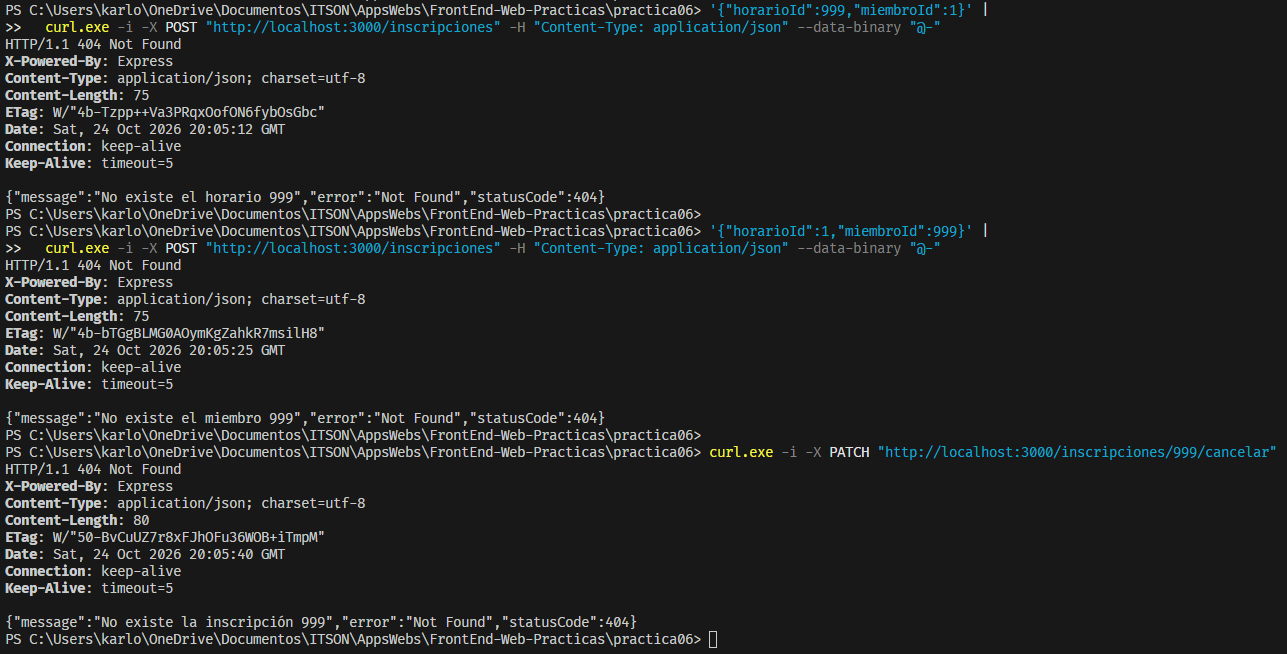
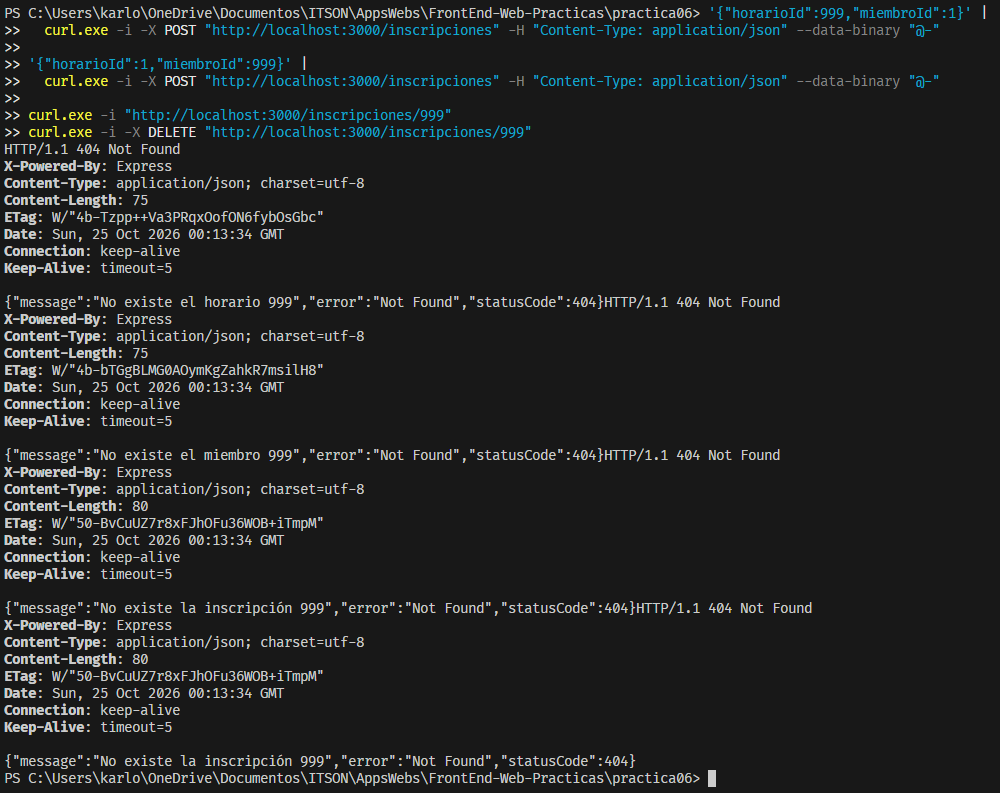
Alinea rutas de inscripciones en practicas06 y 07

diff --git a/practica06/test/inscripciones.e2e-spec.ts b/practica06/test/inscripciones.e2e-spec.ts
@@ -1,0 +1,50 @@
+import { Test } from '@nestjs/testing';
+import type { INestApplication } from '@nestjs/common';
+import request from 'supertest';
+import { AppModule } from '../src/app.module';
+
+describe('Inscripciones HTTP', () => {
+  let app: INestApplication;
+
+  beforeEach(async () => {
+    const modulo = await Test.createTestingModule({ imports: [AppModule] }).compile();
+    app = modulo.createNestApplication();
+    await app.init();
+  });
+
+  afterEach(async () => { await app.close(); });
+
+  it('consulta por ID y libera cupo mediante DELETE', async () => {
+    const servidor = app.getHttpServer();
+    const primera = await request(servidor).post('/inscripciones')
+      .send({ horarioId: 1, miembroId: 1 }).expect(201);
+    const id = primera.body.id as number;
+    expect(primera.headers.location).toBe(`/inscripciones/${id}`);
+    await request(servidor).get(`/inscripciones/${id}`).expect(200)
+      .expect(primera.body);
+    await request(servidor).post('/inscripciones')
+      .send({ horarioId: 1, miembroId: 1 }).expect(409);
+    await request(servidor).post('/inscripciones')
+      .send({ horarioId: 1, miembroId: 2 }).expect(201);
+    await request(servidor).post('/inscripciones')
+      .send({ horarioId: 1, miembroId: 3 }).expect(409);
+    const cancelada = await request(servidor).delete(`/inscripciones/${id}`).expect(200);
+    expect(cancelada.body.estado).toBe('cancelada');
+    const consulta = await request(servidor).get(`/inscripciones/${id}`).expect(200);
+    expect(consulta.body.estado).toBe('cancelada');
+    await request(servidor).post('/inscripciones')
+      .send({ horarioId: 1, miembroId: 3 }).expect(201);
+  });
+
+  it('responde 404 al buscar o cancelar una inscripción inexistente', async () => {
+    await request(app.getHttpServer()).get('/inscripciones/999').expect(404);
+    await request(app.getHttpServer()).delete('/inscripciones/999').expect(404);
+  });
+
+  it('responde 400 a identificadores inválidos', async () => {
+    for (const id of ['texto', '0', '-1']) {
+      await request(app.getHttpServer()).get(`/inscripciones/${id}`).expect(400);
+      await request(app.getHttpServer()).delete(`/inscripciones/${id}`).expect(400);
+    }
+  });
+});

diff --git a/practica07/test/inscripciones.e2e-spec.ts b/practica07/test/inscripciones.e2e-spec.ts
@@ -1,0 +1,50 @@
+import { Test } from '@nestjs/testing';
+import type { INestApplication } from '@nestjs/common';
+import request from 'supertest';
+import { AppModule } from '../src/app.module';
+
+describe('Inscripciones HTTP', () => {
+  let app: INestApplication;
+
+  beforeEach(async () => {
+    const modulo = await Test.createTestingModule({ imports: [AppModule] }).compile();
+    app = modulo.createNestApplication();
+    await app.init();
+  });
+
+  afterEach(async () => { await app.close(); });
+
+  it('consulta por ID y libera cupo mediante DELETE', async () => {
+    const servidor = app.getHttpServer();
+    const primera = await request(servidor).post('/inscripciones')
+      .send({ horarioId: 1, miembroId: 1 }).expect(201);
+    const id = primera.body.id as number;
+    expect(primera.headers.location).toBe(`/inscripciones/${id}`);
+    await request(servidor).get(`/inscripciones/${id}`).expect(200)
+      .expect(primera.body);
+    await request(servidor).post('/inscripciones')
+      .send({ horarioId: 1, miembroId: 1 }).expect(409);
+    await request(servidor).post('/inscripciones')
+      .send({ horarioId: 1, miembroId: 2 }).expect(201);
+    await request(servidor).post('/inscripciones')
+      .send({ horarioId: 1, miembroId: 3 }).expect(409);
+    const cancelada = await request(servidor).delete(`/inscripciones/${id}`).expect(200);
+    expect(cancelada.body.estado).toBe('cancelada');
+    const consulta = await request(servidor).get(`/inscripciones/${id}`).expect(200);
+    expect(consulta.body.estado).toBe('cancelada');
+    await request(servidor).post('/inscripciones')
+      .send({ horarioId: 1, miembroId: 3 }).expect(201);
+  });
+
+  it('responde 404 al buscar o cancelar una inscripción inexistente', async () => {
+    await request(app.getHttpServer()).get('/inscripciones/999').expect(404);
+    await request(app.getHttpServer()).delete('/inscripciones/999').expect(404);
+  });
+
+  it('responde 400 a identificadores inválidos', async () => {
+    for (const id of ['texto', '0', '-1']) {
+      await request(app.getHttpServer()).get(`/inscripciones/${id}`).expect(400);
+      await request(app.getHttpServer()).delete(`/inscripciones/${id}`).expect(400);
+    }
+  });
+});

diff --git a/practica06/src/inscripciones/inscripciones.controller.ts b/practica06/src/inscripciones/inscripciones.controller.ts
@@ -7,7 +7,7 @@ import {
     NotFoundException,
     Param,
     ParseIntPipe,
-    Patch,
+    Delete,
     Post,
     Res,
   } from '@nestjs/common';
@@ -33,7 +33,22 @@ import {
       return inscripciones.map(aInscripcionDto);
     }
   
-    @Post()
+    @Get(':id')
+  async buscar(@Param('id', ParseIntPipe) id: number) {
+    if (id <= 0) {
+      throw new BadRequestException('El id debe ser positivo');
+    }
+
+    const inscripcion = await this.inscripcionesService.buscar(id);
+
+    if (!inscripcion) {
+      throw new NotFoundException(`No existe la inscripción ${id}`);
+    }
+
+    return aInscripcionDto(inscripcion);
+  }
+
+  @Post()
     async crear(
       @Body() cuerpo: unknown,
       @Res({ passthrough: true }) respuesta: Response,
@@ -84,7 +99,7 @@ import {
       }
     }
   
-    @Patch(':id/cancelar')
+    @Delete(':id')
     async cancelar(@Param('id', ParseIntPipe) id: number) {
       if (id <= 0) {
         throw new BadRequestException('El id debe ser positivo');

diff --git a/practica07/src/inscripciones/inscripciones.controller.ts b/practica07/src/inscripciones/inscripciones.controller.ts
@@ -7,7 +7,7 @@ import {
     NotFoundException,
     Param,
     ParseIntPipe,
-    Patch,
+    Delete,
     Post,
     Res,
   } from '@nestjs/common';
@@ -33,7 +33,22 @@ import {
       return inscripciones.map(aInscripcionDto);
     }
   
-    @Post()
+    @Get(':id')
+  async buscar(@Param('id', ParseIntPipe) id: number) {
+    if (id <= 0) {
+      throw new BadRequestException('El id debe ser positivo');
+    }
+
+    const inscripcion = await this.inscripcionesService.buscar(id);
+
+    if (!inscripcion) {
+      throw new NotFoundException(`No existe la inscripción ${id}`);
+    }
+
+    return aInscripcionDto(inscripcion);
+  }
+
+  @Post()
     async crear(
       @Body() cuerpo: unknown,
       @Res({ passthrough: true }) respuesta: Response,
@@ -84,7 +99,7 @@ import {
       }
     }
   
-    @Patch(':id/cancelar')
+    @Delete(':id')
     async cancelar(@Param('id', ParseIntPipe) id: number) {
       if (id <= 0) {
         throw new BadRequestException('El id debe ser positivo');

diff --git a/practica06/src/inscripciones/inscripciones.service.ts b/practica06/src/inscripciones/inscripciones.service.ts
@@ -21,6 +21,10 @@ export class InscripcionesService {
     return this.repo.listar();
   }
 
+  buscar(id: number): Promise<Inscripcion | null> {
+    return this.repo.buscarPorId(id);
+  }
+
   async crear(dto: CrearInscripcionDto): Promise<Inscripcion> {
     const horario = await this.repo.buscarHorario(dto.horarioId);
 

diff --git a/practica07/src/inscripciones/inscripciones.service.ts b/practica07/src/inscripciones/inscripciones.service.ts
@@ -21,6 +21,10 @@ export class InscripcionesService {
     return this.repo.listar();
   }
 
+  buscar(id: number): Promise<Inscripcion | null> {
+    return this.repo.buscarPorId(id);
+  }
+
   async crear(dto: CrearInscripcionDto): Promise<Inscripcion> {
     const horario = await this.repo.buscarHorario(dto.horarioId);
 

diff --git a/practica06/README.md b/practica06/README.md
@@ -110,7 +110,8 @@ Los errores del dominio no contienen códigos HTTP. El controlador realiza su tr
 | POST | `/clases` | Crear una clase |
 | GET | `/inscripciones` | Consultar inscripciones |
 | POST | `/inscripciones` | Crear una inscripción |
-| PATCH | `/inscripciones/:id/cancelar` | Cancelar una inscripción |
+| GET | `/inscripciones/:id` | Buscar una inscripción |
+| DELETE | `/inscripciones/:id` | Cancelar una inscripción |
 
 ## Códigos de respuesta
 
@@ -226,7 +227,7 @@ Después de cancelar la inscripción 1, quedó un lugar disponible. Al repetir l
 ![409 por cupo lleno](evidencias/08-cupo-lleno-409.png)
 
 ### Cancelación
-![Inscripción cancelada](evidencias/09-cancelacion.png)
+![Inscripción cancelada mediante DELETE](evidencias/09-cancelacion.png)
 
 ### Reintento después de cancelar
 ![201 después de liberar cupo](evidencias/10-inscripcion-tras-cancelar.png)
@@ -239,3 +240,12 @@ Después de cancelar la inscripción 1, quedó un lugar disponible. Al repetir l
 
 ### Verificación final
 ![Revisión de tipos, compilación y pruebas](evidencias/13-verificacion-final.png)
+## Consulta y cancelación de inscripciones
+
+`GET /inscripciones/:id` devuelve el DTO de una inscripción o 404 si no existe. `DELETE /inscripciones/:id` cancela la inscripción y devuelve 200 con su estado `cancelada`; no elimina el registro. Los identificadores no enteros o no positivos responden 400.
+
+Las pruebas HTTP automatizadas verifican búsqueda, Location, duplicados, cupo, cancelación, liberación de cupo e identificadores inválidos. Se ejecutan con:
+
+```powershell
+npm run test:e2e -- --runInBand
+```

diff --git a/practica07/README.md b/practica07/README.md
@@ -185,3 +185,15 @@ Estas comprobaciones aportan evidencia sobre los comportamientos probados, aunqu
 
 ### Verificación final
 ![Tipos, compilación, pruebas y auditoría](evidencias/07-verificacion-final.png)
+## Consulta y cancelación de inscripciones
+
+`GET /inscripciones/:id` devuelve el DTO de una inscripción o 404 si no existe. `DELETE /inscripciones/:id` cancela la inscripción y devuelve 200 con su estado `cancelada`; no elimina el registro. Los identificadores no enteros o no positivos responden 400.
+
+Las pruebas HTTP automatizadas verifican búsqueda, Location, duplicados, cupo, cancelación, liberación de cupo e identificadores inválidos. Se ejecutan con:
+
+```powershell
+npm run test:e2e -- --runInBand
+```
+
+### Consulta y cancelación de inscripciones
+![Creación con 201, consulta con 200 y cancelación mediante DELETE con 200](evidencias/08-consulta-cancelacion-inscripcion.png)
